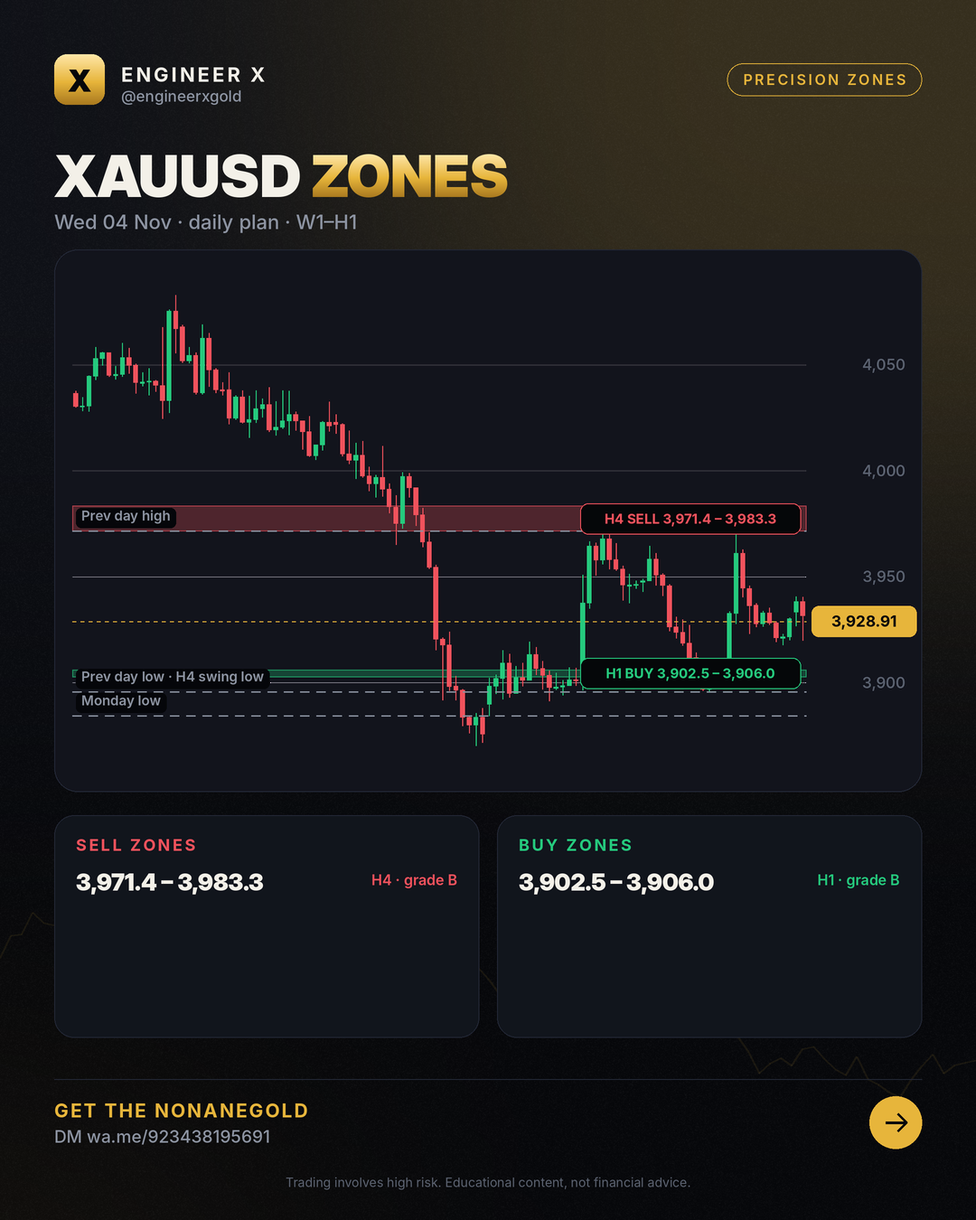
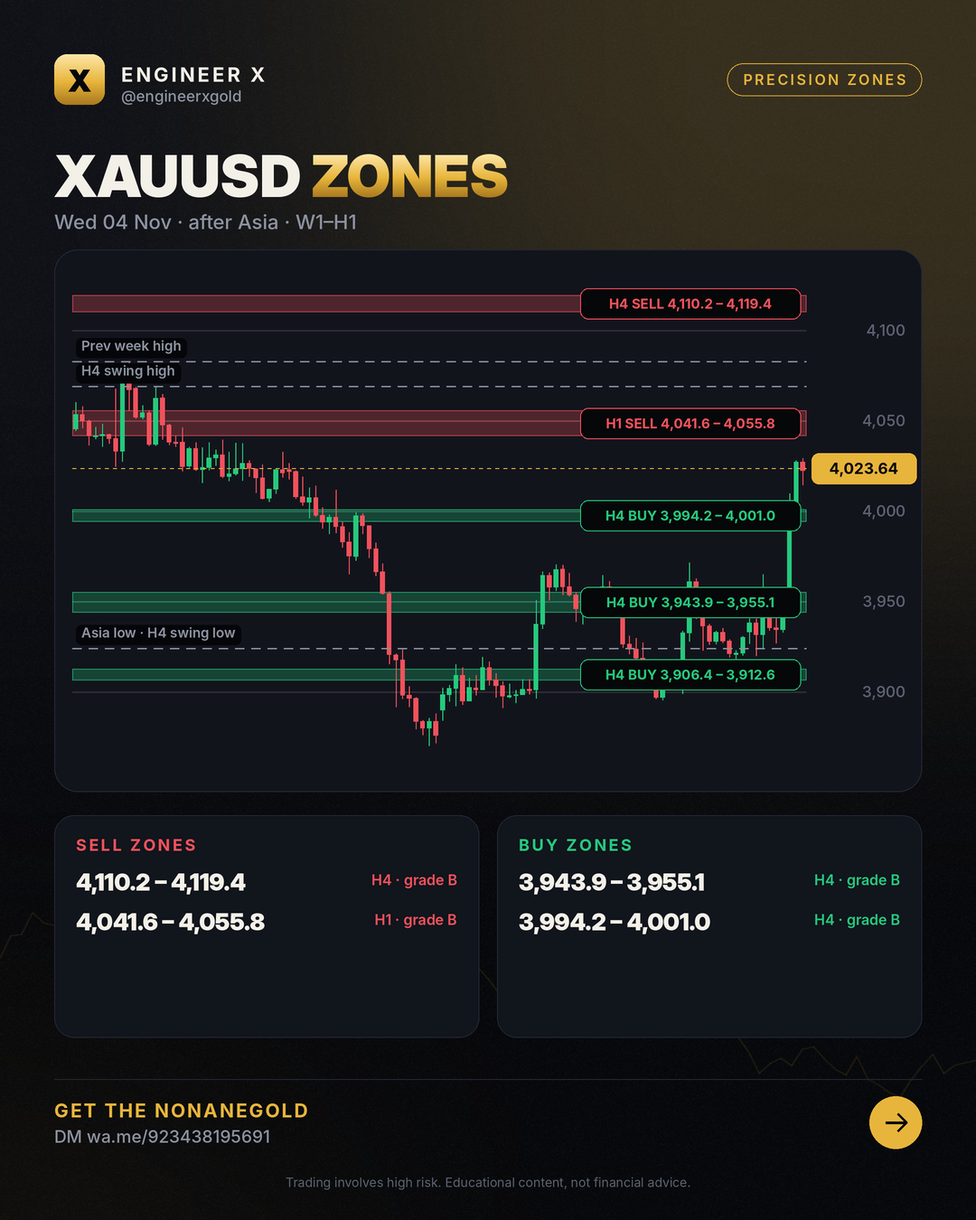
zones 2026-11-04 Wed 04 Nov · after Asia · W1–H1

diff --git a/zones/index.html b/zones/index.html
@@ -4,7 +4,7 @@
 <meta charset="utf-8">
 <meta name="viewport" content="width=device-width,initial-scale=1">
 <title>XAUUSD Zones Today – Buy &amp; Sell Zones (H4, H1) | Engineer X</title>
-<meta name="description" content="XAUUSD buy and sell zones for 2026-11-04: tested W1, D1, H4 and H1 zones with invalidation levels, updated after the Asian, London and New York sessions. Price 3,928.91.">
+<meta name="description" content="XAUUSD buy and sell zones for 2026-11-04: tested W1, D1, H4 and H1 zones with invalidation levels, updated after the Asian, London and New York sessions. Price 4,023.64.">
 <meta name="robots" content="index,follow,max-image-preview:large,max-snippet:-1,max-video-preview:-1">
 <meta name="author" content="Engr. M Ahmad Mehmood">
 <link rel="canonical" href="https://engineerxgold.github.io/zones/">
@@ -12,7 +12,7 @@
 <link rel="apple-touch-icon" href="../img/logo.png">
 <meta property="og:site_name" content="Engineer X">
 <meta property="og:title" content="XAUUSD Zones Today – Buy &amp; Sell Zones (H4, H1) | Engineer X">
-<meta property="og:description" content="XAUUSD buy and sell zones for 2026-11-04: tested W1, D1, H4 and H1 zones with invalidation levels, updated after the Asian, London and New York sessions. Price 3,928.91.">
+<meta property="og:description" content="XAUUSD buy and sell zones for 2026-11-04: tested W1, D1, H4 and H1 zones with invalidation levels, updated after the Asian, London and New York sessions. Price 4,023.64.">
 <meta property="og:type" content="website">
 <meta property="og:url" content="https://engineerxgold.github.io/zones/">
 <meta property="og:image" content="https://engineerxgold.github.io/zones/img/2026-11-04.png">
@@ -22,7 +22,7 @@
 <meta property="og:locale" content="en_US">
 <meta name="twitter:card" content="summary_large_image">
 <meta name="twitter:title" content="XAUUSD Zones Today – Buy &amp; Sell Zones (H4, H1) | Engineer X">
-<meta name="twitter:description" content="XAUUSD buy and sell zones for 2026-11-04: tested W1, D1, H4 and H1 zones with invalidation levels, updated after the Asian, London and New York sessions. Price 3,928.91.">
+<meta name="twitter:description" content="XAUUSD buy and sell zones for 2026-11-04: tested W1, D1, H4 and H1 zones with invalidation levels, updated after the Asian, London and New York sessions. Price 4,023.64.">
 <meta name="twitter:image" content="https://engineerxgold.github.io/zones/img/2026-11-04.png">
 <meta name="twitter:image:alt" content="XAUUSD Zones Today – Buy &amp; Sell Zones (H4, H1) | Engineer X">
 
@@ -101,7 +101,7 @@ footer .fl a{color:var(--muted);margin-right:16px}
 <div class="wrap">
 <nav><a class="logo" href="../"><b>X</b>Engineer X</a>
 <div class="links"><a href="../zones/">Daily Zones</a><a href="../blog/">Learn</a><a href="../ea/">Gold EA</a><a href="../about/">About</a><a class="cta" href="https://wa.me/923438195691">Get the EA</a></div></nav>
-<section class="hero"><span class="chip">Updated Wed 04 Nov · daily plan · W1–H1</span><h1>XAUUSD <span class="gold">precision zones</span></h1><p>XAUUSD buy and sell zones for 2026-11-04: tested W1, D1, H4 and H1 zones with invalidation levels, updated after the Asian, London and New York sessions. Price 3,928.91.</p></section><img src="img/2026-11-04.png" alt="Latest XAUUSD zone map" width="1080" height="1350"><section><h2>Current zones</h2><div style="overflow-x:auto"><table style="width:100%;border-collapse:collapse;font-size:15px"><tr><th align=left>Zone</th><th align=left>Price band</th><th>Grade</th><th align=left>Invalid</th><th align=left>Why</th></tr><tr><td>H4 sell</td><td><b>3,971.37 – 3,983.33</b></td><td>B</td><td>above 3,984.82</td><td>Confluence score 3: ICT + PA + LIQ</td></tr><tr><td>H1 buy</td><td><b>3,902.52 – 3,906.03</b></td><td>B</td><td>below 3,901.03</td><td>H1 demand: 1 small base candle (Tue 03 Nov 06:00 NY), then a strong move up (4.7x ATR). Untouched since. Wrong if price trades below 3901.03.; MSNR levels insid</td></tr></table></div></section><section><h2>Honest scorecard</h2><div class="grid"><div class="card"><div class="n">232</div><p>zones published (30 days)</p></div><div class="card"><div class="n">115</div><p>held (moved 1 hourly ATR away)</p></div><div class="card"><div class="n">22</div><p>broke (traded beyond the invalidation)</p></div><div class="card"><div class="n">84%</div><p>hold rate of decided zones</p></div></div></section><div class="ctabox"><h3>🤖 Trade the zones with the NonaneGold</h3><p>Free signals group access + setup help Message us and we will help you set it up.</p><div class="btns"><a class="btn gold" href="https://wa.me/923438195691">Get the EA on Telegram</a><a class="btn ghost" href="../ea/">About the EA</a></div></div><section><h2>Archive</h2><div class="grid posts"><a class="card" href="2026-11-04/"><span class="date">2026-11-04</span><h3>XAUUSD zones 2026-11-04</h3></a><a class="card" href="2026-11-03/"><span class="date">2026-11-03</span><h3>XAUUSD zones 2026-11-03</h3></a><a class="card" href="2026-11-02/"><span class="date">2026-11-02</span><h3>XAUUSD zones 2026-11-02</h3></a><a class="card" href="2026-10-30/"><span class="date">2026-10-30</span><h3>XAUUSD zones 2026-10-30</h3></a><a class="card" href="2026-10-29/"><span class="date">2026-10-29</span><h3>XAUUSD zones 2026-10-29</h3></a><a class="card" href="2026-10-28/"><span class="date">2026-10-28</span><h3>XAUUSD zones 2026-10-28</h3></a><a class="card" href="2026-10-27/"><span class="date">2026-10-27</span><h3>XAUUSD zones 2026-10-27</h3></a><a class="card" href="2026-10-26/"><span class="date">2026-10-26</span><h3>XAUUSD zones 2026-10-26</h3></a><a class="card" href="2026-10-23/"><span class="date">2026-10-23</span><h3>XAUUSD zones 2026-10-23</h3></a><a class="card" href="2026-10-22/"><span class="date">2026-10-22</span><h3>XAUUSD zones 2026-10-22</h3></a><a class="card" href="2026-10-21/"><span class="date">2026-10-21</span><h3>XAUUSD zones 2026-10-21</h3></a><a class="card" href="2026-10-20/"><span class="date">2026-10-20</span><h3>XAUUSD zones 2026-10-20</h3></a><a class="card" href="2026-10-19/"><span class="date">2026-10-19</span><h3>XAUUSD zones 2026-10-19</h3></a><a class="card" href="2026-10-16/"><span class="date">2026-10-16</span><h3>XAUUSD zones 2026-10-16</h3></a><a class="card" href="2026-10-15/"><span class="date">2026-10-15</span><h3>XAUUSD zones 2026-10-15</h3></a><a class="card" href="2026-10-14/"><span class="date">2026-10-14</span><h3>XAUUSD zones 2026-10-14</h3></a><a class="card" href="2026-10-13/"><span class="date">2026-10-13</span><h3>XAUUSD zones 2026-10-13</h3></a></div></section>
+<section class="hero"><span class="chip">Updated Wed 04 Nov · after Asia · W1–H1</span><h1>XAUUSD <span class="gold">precision zones</span></h1><p>XAUUSD buy and sell zones for 2026-11-04: tested W1, D1, H4 and H1 zones with invalidation levels, updated after the Asian, London and New York sessions. Price 4,023.64.</p></section><img src="img/2026-11-04.png" alt="Latest XAUUSD zone map" width="1080" height="1350"><section><h2>Current zones</h2><div style="overflow-x:auto"><table style="width:100%;border-collapse:collapse;font-size:15px"><tr><th align=left>Zone</th><th align=left>Price band</th><th>Grade</th><th align=left>Invalid</th><th align=left>Why</th></tr><tr><td>H4 sell</td><td><b>4,110.21 – 4,119.39</b></td><td>B</td><td>above 4,121.47</td><td>MSNR resistance levels (fresh): 4H GAP 4113.34, 1H OCL 4115.24, 1H A 4116.26. Wrong if price trades above 4121.47.; Confluence score 3: MSNR + ICT + SMC</td></tr><tr><td>H1 sell</td><td><b>4,041.57 – 4,055.77</b></td><td>B</td><td>above 4,057.85</td><td>MSNR resistance levels (fresh): 1H GAP 4047.63, 30m A 4047.63, 15m A 4044.70, 15m A 4047.63, 15m GAP 4052.64. Wrong if price trades above 4057.85.; Confluence s</td></tr><tr><td>H4 buy</td><td><b>3,943.87 – 3,955.11</b></td><td>B</td><td>below 3,941.79</td><td>MSNR support levels (fresh): 4H GAP 3947.00, 30m GAP 3951.98. Wrong if price trades below 3941.79.; Confluence score 3: MSNR + ICT + PA</td></tr><tr><td>H4 buy</td><td><b>3,994.23 – 4,001.04</b></td><td>B</td><td>below 3,992.15</td><td>MSNR support levels (fresh): 4H RBS 3997.36, 15m GAP 3997.91. Wrong if price trades below 3992.15.; Confluence score 2: MSNR + ICT</td></tr><tr><td>H4 buy</td><td><b>3,906.36 – 3,912.62</b></td><td>B</td><td>below 3,904.28</td><td>MSNR support level (fresh): 4H V 3909.49. Wrong if price trades below 3904.28.; Confluence score 2: MSNR + SMC</td></tr></table></div></section><section><h2>Honest scorecard</h2><div class="grid"><div class="card"><div class="n">232</div><p>zones published (30 days)</p></div><div class="card"><div class="n">121</div><p>held (moved 1 hourly ATR away)</p></div><div class="card"><div class="n">24</div><p>broke (traded beyond the invalidation)</p></div><div class="card"><div class="n">83%</div><p>hold rate of decided zones</p></div></div></section><div class="ctabox"><h3>🤖 Trade the zones with the NonaneGold</h3><p>Free signals group access + setup help Message us and we will help you set it up.</p><div class="btns"><a class="btn gold" href="https://wa.me/923438195691">Get the EA on Telegram</a><a class="btn ghost" href="../ea/">About the EA</a></div></div><section><h2>Archive</h2><div class="grid posts"><a class="card" href="2026-11-04/"><span class="date">2026-11-04</span><h3>XAUUSD zones 2026-11-04</h3></a><a class="card" href="2026-11-03/"><span class="date">2026-11-03</span><h3>XAUUSD zones 2026-11-03</h3></a><a class="card" href="2026-11-02/"><span class="date">2026-11-02</span><h3>XAUUSD zones 2026-11-02</h3></a><a class="card" href="2026-10-30/"><span class="date">2026-10-30</span><h3>XAUUSD zones 2026-10-30</h3></a><a class="card" href="2026-10-29/"><span class="date">2026-10-29</span><h3>XAUUSD zones 2026-10-29</h3></a><a class="card" href="2026-10-28/"><span class="date">2026-10-28</span><h3>XAUUSD zones 2026-10-28</h3></a><a class="card" href="2026-10-27/"><span class="date">2026-10-27</span><h3>XAUUSD zones 2026-10-27</h3></a><a class="card" href="2026-10-26/"><span class="date">2026-10-26</span><h3>XAUUSD zones 2026-10-26</h3></a><a class="card" href="2026-10-23/"><span class="date">2026-10-23</span><h3>XAUUSD zones 2026-10-23</h3></a><a class="card" href="2026-10-22/"><span class="date">2026-10-22</span><h3>XAUUSD zones 2026-10-22</h3></a><a class="card" href="2026-10-21/"><span class="date">2026-10-21</span><h3>XAUUSD zones 2026-10-21</h3></a><a class="card" href="2026-10-20/"><span class="date">2026-10-20</span><h3>XAUUSD zones 2026-10-20</h3></a><a class="card" href="2026-10-19/"><span class="date">2026-10-19</span><h3>XAUUSD zones 2026-10-19</h3></a><a class="card" href="2026-10-16/"><span class="date">2026-10-16</span><h3>XAUUSD zones 2026-10-16</h3></a><a class="card" href="2026-10-15/"><span class="date">2026-10-15</span><h3>XAUUSD zones 2026-10-15</h3></a><a class="card" href="2026-10-14/"><span class="date">2026-10-14</span><h3>XAUUSD zones 2026-10-14</h3></a><a class="card" href="2026-10-13/"><span class="date">2026-10-13</span><h3>XAUUSD zones 2026-10-13</h3></a></div></section>
 <footer>
 <div class="warn"><b>Risk warning:</b> Trading gold, forex and CFDs carries a high risk of losing money and is not suitable for everyone. Past results do not guarantee future results. Everything on this site is educational and not financial advice. We are an introducing partner of our broker and may earn a commission on accounts opened through our link.</div>
 <p class="fl" style="margin-top:18px"><a href="../about/">About &amp; methodology</a><a href="../privacy.html">Privacy</a><a href="../terms.html">Terms &amp; risk disclosure</a><a href="../feed.xml">RSS</a><a href="https://t.me/engineerxgold">Telegram</a></p>

diff --git a/zones/2026-11-04/index.html b/zones/2026-11-04/index.html
@@ -4,7 +4,7 @@
 <meta charset="utf-8">
 <meta name="viewport" content="width=device-width,initial-scale=1">
 <title>Gold Price Today In India – 04 Nov 2026 (W1–H1)</title>
-<meta name="description" content="XAUUSD buy and sell zones for 2026-11-04: tested W1, D1, H4 and H1 zones with invalidation levels, updated after the Asian, London and New York sessions. Price 3,928.91.">
+<meta name="description" content="XAUUSD buy and sell zones for 2026-11-04: tested W1, D1, H4 and H1 zones with invalidation levels, updated after the Asian, London and New York sessions. Price 4,023.64.">
 <meta name="robots" content="index,follow,max-image-preview:large,max-snippet:-1,max-video-preview:-1">
 <meta name="author" content="Engr. M Ahmad Mehmood">
 <link rel="canonical" href="https://engineerxgold.github.io/zones/2026-11-04/">
@@ -12,7 +12,7 @@
 <link rel="apple-touch-icon" href="../../img/logo.png">
 <meta property="og:site_name" content="Engineer X">
 <meta property="og:title" content="Gold Price Today In India – 04 Nov 2026 (W1–H1)">
-<meta property="og:description" content="XAUUSD buy and sell zones for 2026-11-04: tested W1, D1, H4 and H1 zones with invalidation levels, updated after the Asian, London and New York sessions. Price 3,928.91.">
+<meta property="og:description" content="XAUUSD buy and sell zones for 2026-11-04: tested W1, D1, H4 and H1 zones with invalidation levels, updated after the Asian, London and New York sessions. Price 4,023.64.">
 <meta property="og:type" content="article">
 <meta property="og:url" content="https://engineerxgold.github.io/zones/2026-11-04/">
 <meta property="og:image" content="https://engineerxgold.github.io/zones/img/2026-11-04.png">
@@ -22,7 +22,7 @@
 <meta property="og:locale" content="en_US">
 <meta name="twitter:card" content="summary_large_image">
 <meta name="twitter:title" content="Gold Price Today In India – 04 Nov 2026 (W1–H1)">
-<meta name="twitter:description" content="XAUUSD buy and sell zones for 2026-11-04: tested W1, D1, H4 and H1 zones with invalidation levels, updated after the Asian, London and New York sessions. Price 3,928.91.">
+<meta name="twitter:description" content="XAUUSD buy and sell zones for 2026-11-04: tested W1, D1, H4 and H1 zones with invalidation levels, updated after the Asian, London and New York sessions. Price 4,023.64.">
 <meta name="twitter:image" content="https://engineerxgold.github.io/zones/img/2026-11-04.png">
 <meta name="twitter:image:alt" content="Gold Price Today In India – 04 Nov 2026 (W1–H1)">
 
@@ -32,7 +32,7 @@
 <link rel="preconnect" href="https://fonts.googleapis.com">
 <link rel="preconnect" href="https://fonts.gstatic.com" crossorigin>
 <link href="https://fonts.googleapis.com/css2?family=Inter:wght@400;500;600;800;900&display=swap" rel="stylesheet">
-<script type="application/ld+json">{"@context": "https://schema.org", "@type": "Organization", "@id": "https://engineerxgold.github.io/#organization", "name": "Engineer X", "url": "https://engineerxgold.github.io/", "logo": {"@type": "ImageObject", "url": "https://engineerxgold.github.io/img/logo.png", "width": 512, "height": 512}, "sameAs": ["https://t.me/engineerxgold"]}</script><script type="application/ld+json">{"@context": "https://schema.org", "@type": "Article", "headline": "Gold Price Today In India – 04 Nov 2026 (W1–H1)", "datePublished": "2026-11-04T08:00:00+05:00", "dateModified": "2026-11-04T06:04:57+05:00", "author": {"@type": "Person", "@id": "https://engineerxgold.github.io/about/#author", "name": "Engr. M Ahmad Mehmood", "url": "https://engineerxgold.github.io/about/", "jobTitle": "MQL5 Expert Advisor developer and gold market analyst", "worksFor": {"@id": "https://engineerxgold.github.io/#organization"}}, "publisher": {"@id": "https://engineerxgold.github.io/#organization"}, "image": "https://engineerxgold.github.io/zones/img/2026-11-04.png", "mainEntityOfPage": "https://engineerxgold.github.io/zones/2026-11-04/"}</script>
+<script type="application/ld+json">{"@context": "https://schema.org", "@type": "Organization", "@id": "https://engineerxgold.github.io/#organization", "name": "Engineer X", "url": "https://engineerxgold.github.io/", "logo": {"@type": "ImageObject", "url": "https://engineerxgold.github.io/img/logo.png", "width": 512, "height": 512}, "sameAs": ["https://t.me/engineerxgold"]}</script><script type="application/ld+json">{"@context": "https://schema.org", "@type": "Article", "headline": "Gold Price Today In India – 04 Nov 2026 (W1–H1)", "datePublished": "2026-11-04T08:00:00+05:00", "dateModified": "2026-11-04T13:03:51+05:00", "author": {"@type": "Person", "@id": "https://engineerxgold.github.io/about/#author", "name": "Engr. M Ahmad Mehmood", "url": "https://engineerxgold.github.io/about/", "jobTitle": "MQL5 Expert Advisor developer and gold market analyst", "worksFor": {"@id": "https://engineerxgold.github.io/#organization"}}, "publisher": {"@id": "https://engineerxgold.github.io/#organization"}, "image": "https://engineerxgold.github.io/zones/img/2026-11-04.png", "mainEntityOfPage": "https://engineerxgold.github.io/zones/2026-11-04/"}</script>
 
 <style>
 :root{--gold:#E7B53B;--gold-hi:#FFE7A8;--bg:#07080B;--bg2:#0E1016;--panel:#12151D;--line:#232836;--green:#25C97D;--red:#F0525C;--text:#F3F0E8;--muted:#8C93A1}
@@ -101,7 +101,7 @@ footer .fl a{color:var(--muted);margin-right:16px}
 <div class="wrap">
 <nav><a class="logo" href="../../"><b>X</b>Engineer X</a>
 <div class="links"><a href="../../zones/">Daily Zones</a><a href="../../blog/">Learn</a><a href="../../ea/">Gold EA</a><a href="../../about/">About</a><a class="cta" href="https://wa.me/923438195691">Get the EA</a></div></nav>
-<article><p class="crumbs"><a href="../../">Home</a> › <a href="../">Zones</a> › 2026-11-04</p><h1>Gold Price Today In India – 04 Nov 2026 (W1–H1)</h1><p class="byline">Wed 04 Nov · daily plan · W1–H1 · by Engr. M Ahmad Mehmood</p><img src="../img/2026-11-04.png" alt="XAUUSD zone map 2026-11-04" width="1080" height="1350" loading="eager"><h2>Zones</h2><div style="overflow-x:auto"><table style="width:100%;border-collapse:collapse;font-size:15px"><tr><th align=left>Zone</th><th align=left>Price band</th><th>Grade</th><th align=left>Invalid</th><th align=left>Why</th></tr><tr><td>H4 sell</td><td><b>3,971.37 – 3,983.33</b></td><td>B</td><td>above 3,984.82</td><td>Confluence score 3: ICT + PA + LIQ</td></tr><tr><td>H1 buy</td><td><b>3,902.52 – 3,906.03</b></td><td>B</td><td>below 3,901.03</td><td>H1 demand: 1 small base candle (Tue 03 Nov 06:00 NY), then a strong move up (4.7x ATR). Untouched since. Wrong if price trades below 3901.03.; MSNR levels insid</td></tr></table></div><h2>How to read this map</h2><p>Bands are where price is expected to react; they are not entries. Trading beyond the invalidation price ends the zone; each zone counts once (first touch). Highs and lows listed as liquidity are targets: on 10 years of gold price ran through them more often than through random levels.</p><div class="ctabox"><h3>🤖 Trade the zones with the NonaneGold</h3><p>Free signals group access + setup help Message us and we will help you set it up.</p><div class="btns"><a class="btn gold" href="https://wa.me/923438195691">Get the EA on Telegram</a><a class="btn ghost" href="../../ea/">About the EA</a></div></div></article>
+<article><p class="crumbs"><a href="../../">Home</a> › <a href="../">Zones</a> › 2026-11-04</p><h1>Gold Price Today In India – 04 Nov 2026 (W1–H1)</h1><p class="byline">Wed 04 Nov · after Asia · W1–H1 · by Engr. M Ahmad Mehmood</p><img src="../img/2026-11-04.png" alt="XAUUSD zone map 2026-11-04" width="1080" height="1350" loading="eager"><h2>Zones</h2><div style="overflow-x:auto"><table style="width:100%;border-collapse:collapse;font-size:15px"><tr><th align=left>Zone</th><th align=left>Price band</th><th>Grade</th><th align=left>Invalid</th><th align=left>Why</th></tr><tr><td>H4 sell</td><td><b>4,110.21 – 4,119.39</b></td><td>B</td><td>above 4,121.47</td><td>MSNR resistance levels (fresh): 4H GAP 4113.34, 1H OCL 4115.24, 1H A 4116.26. Wrong if price trades above 4121.47.; Confluence score 3: MSNR + ICT + SMC</td></tr><tr><td>H1 sell</td><td><b>4,041.57 – 4,055.77</b></td><td>B</td><td>above 4,057.85</td><td>MSNR resistance levels (fresh): 1H GAP 4047.63, 30m A 4047.63, 15m A 4044.70, 15m A 4047.63, 15m GAP 4052.64. Wrong if price trades above 4057.85.; Confluence s</td></tr><tr><td>H4 buy</td><td><b>3,943.87 – 3,955.11</b></td><td>B</td><td>below 3,941.79</td><td>MSNR support levels (fresh): 4H GAP 3947.00, 30m GAP 3951.98. Wrong if price trades below 3941.79.; Confluence score 3: MSNR + ICT + PA</td></tr><tr><td>H4 buy</td><td><b>3,994.23 – 4,001.04</b></td><td>B</td><td>below 3,992.15</td><td>MSNR support levels (fresh): 4H RBS 3997.36, 15m GAP 3997.91. Wrong if price trades below 3992.15.; Confluence score 2: MSNR + ICT</td></tr><tr><td>H4 buy</td><td><b>3,906.36 – 3,912.62</b></td><td>B</td><td>below 3,904.28</td><td>MSNR support level (fresh): 4H V 3909.49. Wrong if price trades below 3904.28.; Confluence score 2: MSNR + SMC</td></tr></table></div><h2>How to read this map</h2><p>Bands are where price is expected to react; they are not entries. Trading beyond the invalidation price ends the zone; each zone counts once (first touch). Highs and lows listed as liquidity are targets: on 10 years of gold price ran through them more often than through random levels.</p><div class="ctabox"><h3>🤖 Trade the zones with the NonaneGold</h3><p>Free signals group access + setup help Message us and we will help you set it up.</p><div class="btns"><a class="btn gold" href="https://wa.me/923438195691">Get the EA on Telegram</a><a class="btn ghost" href="../../ea/">About the EA</a></div></div></article>
 <footer>
 <div class="warn"><b>Risk warning:</b> Trading gold, forex and CFDs carries a high risk of losing money and is not suitable for everyone. Past results do not guarantee future results. Everything on this site is educational and not financial advice. We are an introducing partner of our broker and may earn a commission on accounts opened through our link.</div>
 <p class="fl" style="margin-top:18px"><a href="../../about/">About &amp; methodology</a><a href="../../privacy.html">Privacy</a><a href="../../terms.html">Terms &amp; risk disclosure</a><a href="../../feed.xml">RSS</a><a href="https://t.me/engineerxgold">Telegram</a></p>

diff --git a/index.html b/index.html
@@ -101,7 +101,7 @@ footer .fl a{color:var(--muted);margin-right:16px}
 <div class="wrap">
 <nav><a class="logo" href="./"><b>X</b>Engineer X</a>
 <div class="links"><a href="./zones/">Daily Zones</a><a href="./blog/">Learn</a><a href="./ea/">Gold EA</a><a href="./about/">About</a><a class="cta" href="https://wa.me/923438195691">Get the EA</a></div></nav>
-<section class="hero"><span class="chip">XAUUSD · W1–H1 · every session</span><h1>Gold <span class="gold">precision zones</span>, updated after every session</h1><p>Tested buy and sell zones with clear invalidation, a scorecard of every result, and the NonaneGold for traders who want it automated.</p><div class="btns"><a class="btn gold" href="zones/">See today's zones</a><a class="btn ghost" href="https://wa.me/923438195691">Get the EA</a></div></section><section><h2>Latest map Wed 04 Nov · daily plan · W1–H1</h2><img src="zones/img/2026-11-04.png" alt="Latest XAUUSD zones" width="1080" height="1350"></section><div class="ctabox"><h3>🤖 Trade the zones with the NonaneGold</h3><p>Free signals group access + setup help Message us and we will help you set it up.</p><div class="btns"><a class="btn gold" href="https://wa.me/923438195691">Get the EA on Telegram</a><a class="btn ghost" href="ea/">About the EA</a></div></div><section><h2>Learn</h2><div class="grid posts"><a class="card" href="blog/gold-supply-and-demand-zones-h4-h1-map-analysis/"><span class="date">2026-11-04</span><h3>Gold Supply and Demand Zones: H4 &amp; H1 Map Analysis</h3></a><a class="card" href="blog/gold-support-resistance-today-s-map-key-zones/"><span class="date">2026-11-03</span><h3>Gold Support Resistance: Today&#x27;s Map &amp; Key Zones</h3></a><a class="card" href="blog/gold-supply-and-demand-zones-h4-setup-levels/"><span class="date">2026-11-01</span><h3>Gold Supply and Demand Zones: H4 Setup &amp; Levels</h3></a><a class="card" href="blog/gold-supply-and-demand-zones-h4-h1-trading-map-2026-10-31/"><span class="date">2026-10-31</span><h3>Gold Supply and Demand Zones: H4 &amp; H1 Trading Map</h3></a><a class="card" href="blog/gold-price-today-live-technical-levels-zone-map/"><span class="date">2026-10-30</span><h3>Gold Price Today: Live Technical Levels &amp; Zone Map</h3></a><a class="card" href="blog/gold-trading-h4-trend-zones-liquidity-map/"><span class="date">2026-10-29</span><h3>Gold Trading: H4 Trend Zones &amp; Liquidity Map</h3></a></div></section><section><h2>FAQ</h2><details><summary>What is a precision zone?</summary><p>A point of interest from a trading book (OTE 0.705, balanced price range, weekly close level, daily order block) that held better than random levels on 10 years of gold. Each zone has an invalidation price.</p></details><details><summary>How often are the zones updated?</summary><p>A daily plan at the Asian open, then after the Asian, London and New York sessions.</p></details><details><summary>Are these trade signals?</summary><p>No. Zones are areas to watch. Wait for your own confirmation and manage risk.</p></details><details><summary>How do I get the Gold EA?</summary><p>Message us on Telegram or WhatsApp; we answer and help with the setup.</p></details></section>
+<section class="hero"><span class="chip">XAUUSD · W1–H1 · every session</span><h1>Gold <span class="gold">precision zones</span>, updated after every session</h1><p>Tested buy and sell zones with clear invalidation, a scorecard of every result, and the NonaneGold for traders who want it automated.</p><div class="btns"><a class="btn gold" href="zones/">See today's zones</a><a class="btn ghost" href="https://wa.me/923438195691">Get the EA</a></div></section><section><h2>Latest map Wed 04 Nov · after Asia · W1–H1</h2><img src="zones/img/2026-11-04.png" alt="Latest XAUUSD zones" width="1080" height="1350"></section><div class="ctabox"><h3>🤖 Trade the zones with the NonaneGold</h3><p>Free signals group access + setup help Message us and we will help you set it up.</p><div class="btns"><a class="btn gold" href="https://wa.me/923438195691">Get the EA on Telegram</a><a class="btn ghost" href="ea/">About the EA</a></div></div><section><h2>Learn</h2><div class="grid posts"><a class="card" href="blog/gold-supply-and-demand-zones-h4-h1-map-analysis/"><span class="date">2026-11-04</span><h3>Gold Supply and Demand Zones: H4 &amp; H1 Map Analysis</h3></a><a class="card" href="blog/gold-support-resistance-today-s-map-key-zones/"><span class="date">2026-11-03</span><h3>Gold Support Resistance: Today&#x27;s Map &amp; Key Zones</h3></a><a class="card" href="blog/gold-supply-and-demand-zones-h4-setup-levels/"><span class="date">2026-11-01</span><h3>Gold Supply and Demand Zones: H4 Setup &amp; Levels</h3></a><a class="card" href="blog/gold-supply-and-demand-zones-h4-h1-trading-map-2026-10-31/"><span class="date">2026-10-31</span><h3>Gold Supply and Demand Zones: H4 &amp; H1 Trading Map</h3></a><a class="card" href="blog/gold-price-today-live-technical-levels-zone-map/"><span class="date">2026-10-30</span><h3>Gold Price Today: Live Technical Levels &amp; Zone Map</h3></a><a class="card" href="blog/gold-trading-h4-trend-zones-liquidity-map/"><span class="date">2026-10-29</span><h3>Gold Trading: H4 Trend Zones &amp; Liquidity Map</h3></a></div></section><section><h2>FAQ</h2><details><summary>What is a precision zone?</summary><p>A point of interest from a trading book (OTE 0.705, balanced price range, weekly close level, daily order block) that held better than random levels on 10 years of gold. Each zone has an invalidation price.</p></details><details><summary>How often are the zones updated?</summary><p>A daily plan at the Asian open, then after the Asian, London and New York sessions.</p></details><details><summary>Are these trade signals?</summary><p>No. Zones are areas to watch. Wait for your own confirmation and manage risk.</p></details><details><summary>How do I get the Gold EA?</summary><p>Message us on Telegram or WhatsApp; we answer and help with the setup.</p></details></section>
 <footer>
 <div class="warn"><b>Risk warning:</b> Trading gold, forex and CFDs carries a high risk of losing money and is not suitable for everyone. Past results do not guarantee future results. Everything on this site is educational and not financial advice. We are an introducing partner of our broker and may earn a commission on accounts opened through our link.</div>
 <p class="fl" style="margin-top:18px"><a href="./about/">About &amp; methodology</a><a href="./privacy.html">Privacy</a><a href="./terms.html">Terms &amp; risk disclosure</a><a href="./feed.xml">RSS</a><a href="https://t.me/engineerxgold">Telegram</a></p>
